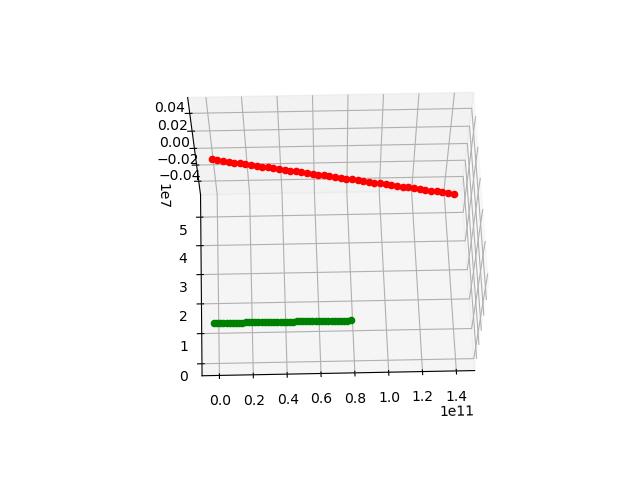
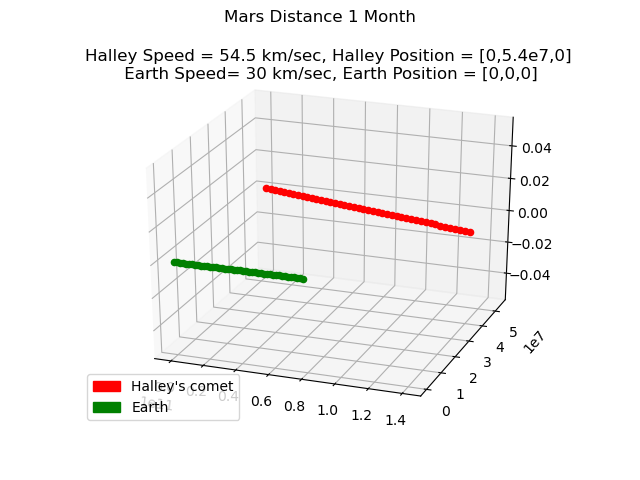
chartsv2

diff --git a/mars_distance.py b/mars_distance.py
@@ -125,7 +125,7 @@ class Potential:
         return self.system
 
 lenTime=3600.0*24*30  #sec EN 30 días 
-dt=60.0      #sec    Paso de 60 segundos
+dt=60      #sec    Paso de 60 segundos
 
 
 #sun = Particle([0,0,0],[0,0,0], 2e30)
@@ -143,7 +143,7 @@ dt=60.0      #sec    Paso de 60 segundos
 earth = Particle([0, 0, 0], [30000, 0, 0], 6e24)#6
 #4936729700 m distancia de Halley a la Tierra
 ##https://solarsystem.nasa.gov/asteroids-comets-and-meteors/comets/1p-halley/in-depth/#:~:text=The%20comet%27s%20closest%20approach%20to,miles%20or%204.94%20million%20kilometers
-halley = Particle([0,5.4e7,0], [54500,0,0], 2.2e14)
+halley = Particle([0,5.4e7,0],[54500,0,0], 2.2e14)#2.2e14)
 #¿O redondeamos 4.93 a 5?
 n_steps = int(lenTime/dt)
 
@@ -258,10 +258,9 @@ for particle in particles:
 #ax[2].plot(x,a)
 #ax[2].set(xlabel='time [sec]', ylabel='acceleration [km/s^2]')
 #ax[2].grid()
-plt.title('Halley Speed = 54.5 km/sec, Halley Position = [0,5.4e7,0]\n Earth Speed= 30 km/sec, Earth Position = [0,0,0]')
+plt.title('Halley Speed = 54.5 km/sec, Halley Position = [0,5.4e7,0]\n Earth Speed = 30 km/sec, Earth Position = [0,0,0], dt = 60')
 fig.suptitle('Mars Distance 1 Month')
 red_patch = mpatches.Patch(color='red', label='Halley\'s comet')
 green_patch = mpatches.Patch(color='green', label='Earth')
 plt.legend(handles=[red_patch,green_patch],loc='lower left')
 plt.show()
-

diff --git a/moon_distance.py b/moon_distance.py
@@ -125,7 +125,7 @@ class Potential:
         return self.system
 
 lenTime=3600.0*24*30  #sec EN 30 días
-dt=60.0      #sec    Paso de 60 segundos
+dt=3.49    #sec    Paso de 60 segundos
 
 
 #sun = Particle([0,0,0],[0,0,0], 2e30)
@@ -260,10 +260,9 @@ for particle in particles:
 #ax[2].grid()
 
 
-plt.title('Halley Speed = 54.5 km/sec, Halley Position = [0,3.8e5,0]\n Earth Speed= 30 km/sec, Earth Position = [0,0,0]')
+plt.title('Halley Speed = 54.5 km/sec, Halley Position = [0,3.8e5,0]\n Earth Speed= 30 km/sec, Earth Position = [0,0,0], dt = 3.49 ')
 fig.suptitle('Moon Distance 1 Month')
 red_patch = mpatches.Patch(color='red', label='Halley\'s comet')
 green_patch = mpatches.Patch(color='green', label='Earth')
 plt.legend(handles=[red_patch,green_patch],loc='lower left')
 plt.show()
-

diff --git a/normal_distance.py b/normal_distance.py
@@ -125,7 +125,7 @@ class Potential:
         return self.system
 
 lenTime=3600.0*24*30  #sec EN 30 días
-dt=60.0      #sec    Paso de 60 segundos
+dt=60     #sec    Paso de 60 segundos
 
 
 #sun = Particle([0,0,0],[0,0,0], 2e30)
@@ -260,10 +260,9 @@ for particle in particles:
 #ax[2].grid()
 
 
-plt.title('Halley Speed = 54.5 km/sec, Halley Position = [0,5e9,0]\n Earth Speed= 30 km/sec, Earth Position = [0,0,0]')
+plt.title('Halley Speed = 54.5 km/sec, Halley Position = [0,5e9,0]\n Earth Speed = 30 km/sec, Earth Position = [0,0,0], dt = 60 ')
 fig.suptitle('Normal Distance 1 Month')
 red_patch = mpatches.Patch(color='red', label='Halley\'s comet')
 green_patch = mpatches.Patch(color='green', label='Earth')
 plt.legend(handles=[red_patch,green_patch],loc='lower left')
 plt.show()
-
